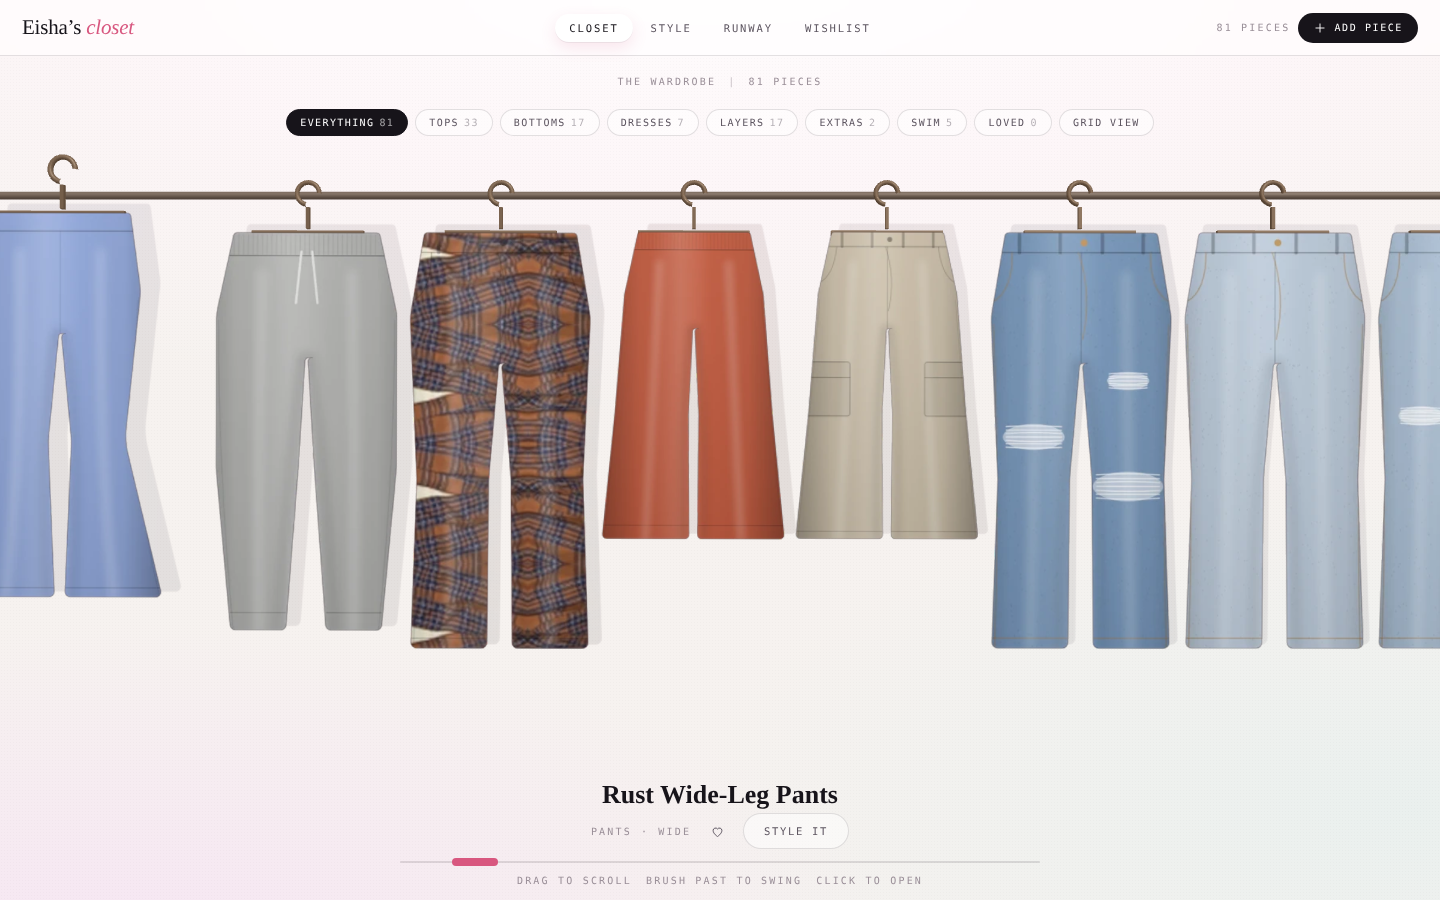
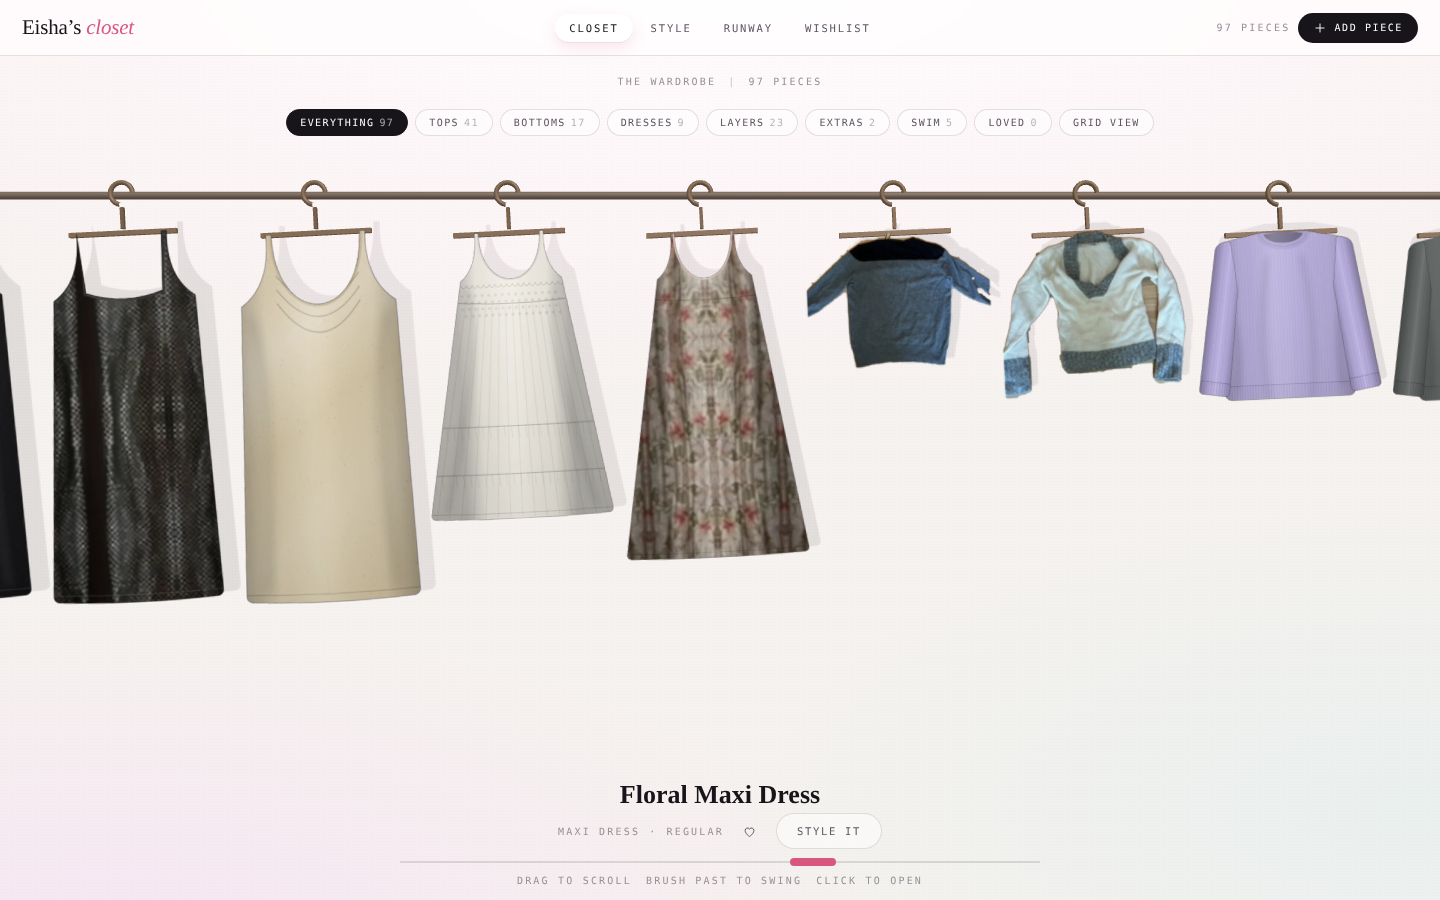
Add 16 pieces from the closet videos; fix grid and flat-lay sizing
- Pull the sharpest frame for each garment held up in the two videos, flip the
  front-camera mirroring, and separate the garment from the person holding it.
- Replace the Death Valley tee photo with the much clearer video frame.
- Grid cards and flat-lay tiles now contain their images instead of overflowing.

Claude-Session: https://claude.ai/code/session_01G9rHdK2oYhaUmFHUV9cMnV

diff --git a/src/styles.css b/src/styles.css
@@ -116,7 +116,7 @@ main { position: relative; z-index: 1; flex: 1; min-height: 0; display: flex; fl
 
 .grid-view {
   flex: 1; overflow-y: auto; display: grid; gap: 14px; padding: 6px 22px 40px;
-  grid-template-columns: repeat(auto-fill, minmax(176px, 1fr)); align-content: start;
+  grid-template-columns: repeat(auto-fill, minmax(176px, 1fr)); grid-auto-rows: max-content; align-content: start;
   max-width: 1500px; width: 100%; margin: 0 auto;
 }
 .card {
@@ -124,8 +124,8 @@ main { position: relative; z-index: 1; flex: 1; min-height: 0; display: flex; fl
   overflow: hidden; display: flex; flex-direction: column; text-align: left; transition: all .2s;
 }
 .card:hover { background: #fff; box-shadow: 0 14px 34px rgba(120,70,100,.13); transform: translateY(-2px); }
-.card .ph { aspect-ratio: 1; display: grid; place-items: center; padding: 14px; background: linear-gradient(170deg, #fff, #f7f1f3); }
-.card .ph img { max-width: 100%; max-height: 100%; object-fit: contain; filter: drop-shadow(0 8px 14px rgba(90,50,75,.14)); }
+.card .ph { height: 205px; display: flex; align-items: center; justify-content: center; overflow: hidden; padding: 16px; background: linear-gradient(170deg, #fff, #f7f1f3); }
+.card .ph img { max-width: 100%; max-height: 100%; width: auto; height: auto; object-fit: contain; filter: drop-shadow(0 8px 14px rgba(90,50,75,.14)); }
 .card .cap { padding: 9px 11px 11px; border-top: 1px solid var(--line); display: flex; align-items: center; gap: 8px; }
 .card .cap div { flex: 1; min-width: 0; }
 .card .cap b { display: block; font-size: 12px; font-weight: 600; white-space: nowrap; overflow: hidden; text-overflow: ellipsis; }
@@ -235,7 +235,7 @@ button.pill:hover { border-color: var(--rose); color: var(--rose); }
 .stage .board { max-width: 320px; margin: 0 auto; }
 .stage-actions { display: flex; gap: 8px; justify-content: center; margin-top: 10px; }
 .picker { display: grid; grid-template-columns: repeat(auto-fill, minmax(78px, 1fr)); gap: 8px; max-height: 46vh; overflow-y: auto; padding-right: 4px; }
-.pick { border: 1px solid var(--line); border-radius: 3px; padding: 6px; background: rgba(255,255,255,.6); transition: all .15s; aspect-ratio: 1; display: grid; place-items: center; }
+.pick { border: 1px solid var(--line); border-radius: 3px; padding: 6px; background: rgba(255,255,255,.6); transition: all .15s; aspect-ratio: 1; display: flex; align-items: center; justify-content: center; overflow: hidden; }
 .pick img { max-width: 100%; max-height: 100%; object-fit: contain; }
 .pick:hover { border-color: var(--ink); }
 .pick.on { border-color: var(--rose); background: var(--blush); }
@@ -279,7 +279,7 @@ button.pill:hover { border-color: var(--rose); color: var(--rose); }
 .sheet .close { position: absolute; right: 12px; top: 12px; z-index: 3; background: #fff; border: 1px solid var(--line); }
 .detail { display: grid; grid-template-columns: 1fr; }
 @media (min-width: 720px) { .detail { grid-template-columns: 1fr 1fr; } }
-.detail .shot { display: grid; place-items: center; padding: 38px; background: linear-gradient(170deg, #fff, #f7eef1); border-right: 1px solid var(--line); min-height: 280px; }
+.detail .shot { display: flex; align-items: center; justify-content: center; overflow: hidden; padding: 38px; background: linear-gradient(170deg, #fff, #f7eef1); border-right: 1px solid var(--line); min-height: 280px; }
 .detail .shot img { max-width: 100%; max-height: 44vh; object-fit: contain; filter: drop-shadow(0 20px 30px rgba(90,50,75,.2)); }
 .detail .info { padding: 32px 30px; display: flex; flex-direction: column; gap: 14px; }
 .detail .info h2 { font-family: var(--serif); font-size: 34px; line-height: 1.05; font-weight: 400; }

diff --git a/src/wardrobe.js b/src/wardrobe.js
@@ -87,6 +87,23 @@ const S = [
   ['b84', 'Lilac Sweat Shorts', 'bottom', 'shorts', 'lilac', 'short', 'cozy sporty girly casual', 1, 'solid'],
   ['b85', 'Distressed Denim Shorts', 'bottom', 'shorts', 'denim', 'short', 'casual beach street y2k', 1, 'solid'],
   ['b94', 'Black Floral Skort', 'bottom', 'shorts', 'black', 'short', 'sporty girly casual', 1, 'print'],
+  // added from the closet videos
+  ['n01', 'Light Grey Zip Hoodie', 'layer', 'hoodie', 'grey', 'oversized', 'cozy casual street campus', 3, 'solid'],
+  ['n02', 'Black Slim Long Sleeve', 'top', 'long sleeve', 'black', 'fitted', 'clean night casual edgy', 2, 'solid'],
+  ['n03', 'Patagonia Fleece Jacket', 'layer', 'fleece', 'charcoal', 'regular', 'sporty cozy campus street', 3, 'solid'],
+  ['n04', 'Columbia Business School Hoodie', 'layer', 'hoodie', 'navy', 'oversized', 'campus cozy street casual', 3, 'graphic'],
+  ['n05', 'Cream Boxy Tee', 'top', 'tee', 'cream', 'oversized', 'clean casual street', 1, 'solid'],
+  ['n06', 'Light-Wash Denim Jacket', 'layer', 'jacket', 'lightdenim', 'regular', 'casual street y2k campus', 2, 'solid'],
+  ['n07', 'Grey Gap Quarter-Zip', 'layer', 'fleece', 'charcoal', 'oversized', 'cozy campus sporty casual', 3, 'graphic'],
+  ['n08', 'Garden Floral Maxi Dress', 'dress', 'maxi dress', 'cream', 'regular', 'boho girly beach', 1, 'print'],
+  ['n09', 'Black Lace Long Sleeve', 'top', 'long sleeve', 'black', 'fitted', 'night edgy girly', 1, 'solid'],
+  ['n10', 'Black Draped Mesh Top', 'top', 'blouse', 'black', 'regular', 'night edgy', 1, 'solid'],
+  ['n11', 'SZA Hockey Jersey', 'top', 'long sleeve', 'white', 'oversized', 'street y2k campus sporty', 2, 'graphic'],
+  ['n12', 'Mauve Wide-Sleeve Top', 'top', 'blouse', 'brown', 'regular', 'clean girly night boho', 1, 'solid'],
+  ['n13', 'Navy Striped Jersey', 'top', 'tee', 'navy', 'oversized', 'sporty street campus casual', 1, 'solid'],
+  ['n14', 'Stussy Crewneck', 'layer', 'crewneck', 'white', 'oversized', 'street casual y2k', 3, 'graphic'],
+  ['n15', 'Brown Houndstooth Dress', 'dress', 'mini dress', 'brown', 'regular', 'preppy clean boho', 1, 'print'],
+  ['n16', 'Mustang Graphic Tee', 'top', 'tee', 'white', 'oversized', 'street y2k casual', 1, 'graphic'],
 ]
 
 export const SEED = S.map(([id, name, cat, sub, color, fit, vibes, warmth, pattern]) => ({

diff --git a/README.md b/README.md
@@ -25,7 +25,11 @@ scores your looks; and a wishlist tracks what to buy next.
 Each piece is either a **photo cutout** (background removed from the original wardrobe
 photo) or a **drawn garment** (a vector template tinted to the real colour, with the
 actual print or graphic lifted off the photo). `src/source.json` records which is which
-— currently 32 photos and 49 drawings. The originals live in `public/wardrobe/photo/`.
+— currently 48 photos and 49 drawings. The originals live in `public/wardrobe/photo/`.
+
+Sixteen pieces came from the closet videos: frames were picked automatically where a
+garment was held up and still, un-mirrored (the front camera flips everything), and
+the garment separated from the person holding it.
 
 To re-render the drawn garments after editing `src/specs.js`:
 
